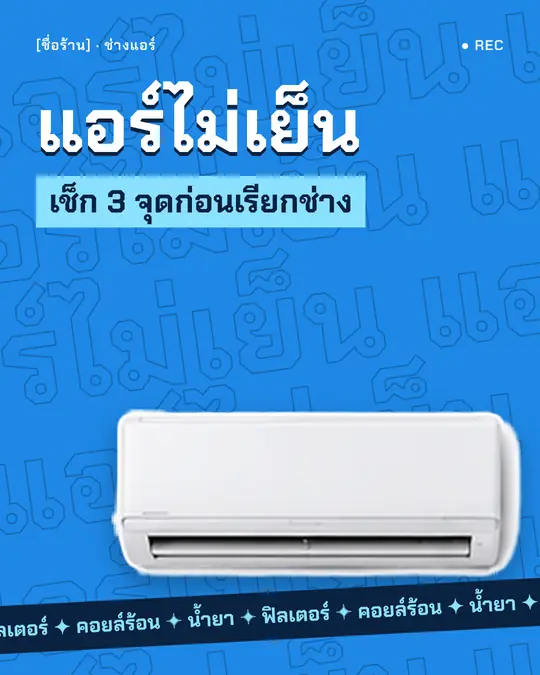
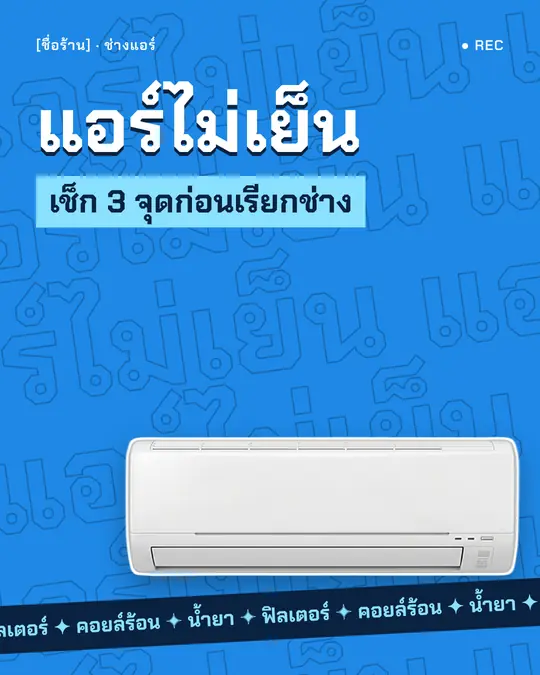
Templates: hi-res real AC unit in all AC sets
Claude-Session: https://claude.ai/code/session_019yEVvDxZZpDnrAAHbXJuxh

Changed region(s): [[0.2074, 0.5911, 0.9778, 0.8711]]

diff --git a/queue/tpl.js b/queue/tpl.js
@@ -27,7 +27,7 @@ function render(){
     var on=sel.indexOf(it.id)>-1;
     var card=document.createElement('div'); card.className='tcard'+(on?' on':'');
     card.innerHTML='<div class="tpick"><button type="button" class="topen" aria-label="ดูทั้งชุด 15 ภาพ '+it.id+'">'+
-      '<img loading="lazy" decoding="async" width="720" height="900" src="/assets/tpl/'+it.id+'.webp?v=5" alt="ตัวอย่าง '+SN[it.style].n+' · '+BN[it.biz]+'"><span class="t15">ดูทั้งชุด 15 ภาพ</span></button>'+
+      '<img loading="lazy" decoding="async" width="720" height="900" src="/assets/tpl/'+it.id+'.webp?v=6" alt="ตัวอย่าง '+SN[it.style].n+' · '+BN[it.biz]+'"><span class="t15">ดูทั้งชุด 15 ภาพ</span></button>'+
       '<button type="button" class="tick" aria-pressed="'+on+'" aria-label="เลือกชุด '+it.id+'"><svg viewBox="0 0 16 16"><path d="M3.5 8.5l3 3 6-7" fill="none" stroke="currentColor" stroke-width="2.2" stroke-linecap="round" stroke-linejoin="round"/></svg></button></div>'+
       '<div class="tmeta"><div><b>'+SN[it.style].n+'</b><span>'+BN[it.biz]+' · <span class="mono">'+it.id+'</span></span></div>'+
       '<button type="button" class="tzoom" aria-label="ดูภาพใหญ่ '+it.id+'"><svg viewBox="0 0 16 16"><circle cx="7" cy="7" r="4.5" fill="none" stroke="currentColor" stroke-width="1.6"/><path d="m10.5 10.5 3 3" stroke="currentColor" stroke-width="1.6" stroke-linecap="round"/></svg></button></div>';
@@ -41,7 +41,7 @@ function render(){
 function toggle(id){ var i=sel.indexOf(id); if(i>-1) sel.splice(i,1); else if(sel.length<20) sel.push(id); render(); upd(); }
 function upd(){ cnt.textContent=sel.length; bar.hidden=!sel.length; $('#tpl-sel').textContent=sel.join(', '); }
 var FUN=[['ดึงคนใหม่','ภาพ 1–5 · ให้คนไม่รู้จักร้านหยุดดู เซฟ แชร์'],['สร้างความเชื่อ','ภาพ 6–10 · ขั้นตอน ก่อน/หลัง รีวิว คำถาม'],['ปิดการขาย','ภาพ 11–15 · แพ็กเกจ เงื่อนไข ชวนทัก']];
-function src(id,n){ return '/assets/tpl/set/'+id+'-'+(n<10?'0':'')+n+'.webp?v=5'; }
+function src(id,n){ return '/assets/tpl/set/'+id+'-'+(n<10?'0':'')+n+'.webp?v=6'; }
 function zoom(it){
   $('#tpl-vtitle').textContent=SN[it.style].n+' · '+BN[it.biz];
   $('#tpl-vcap').textContent=SN[it.style].d+' · 3 กรวย × 5 ภาพ · รหัส '+it.id;
